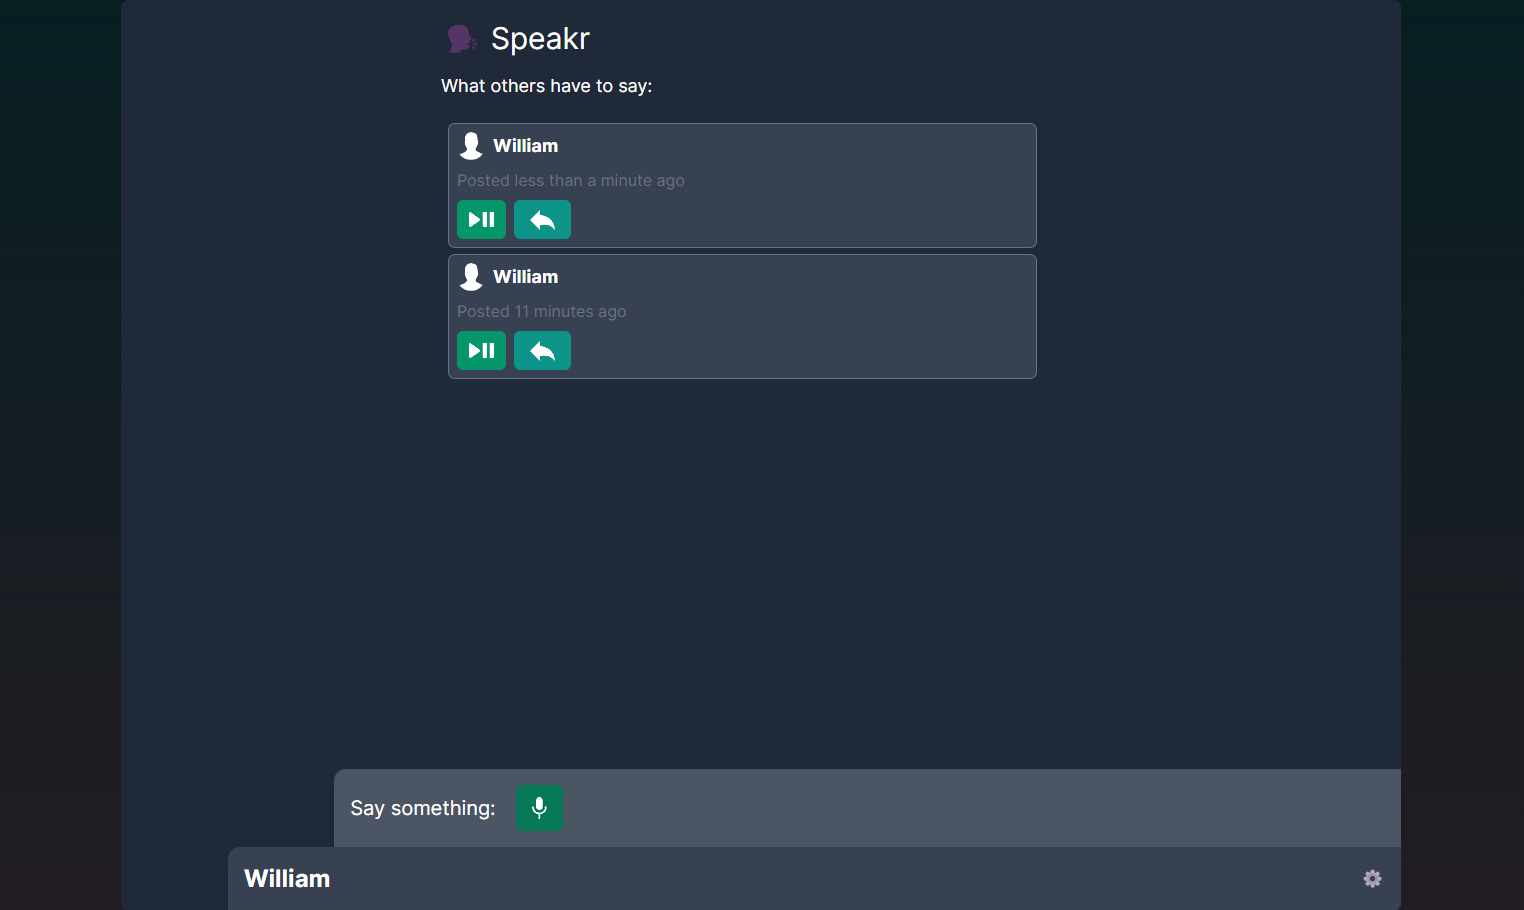
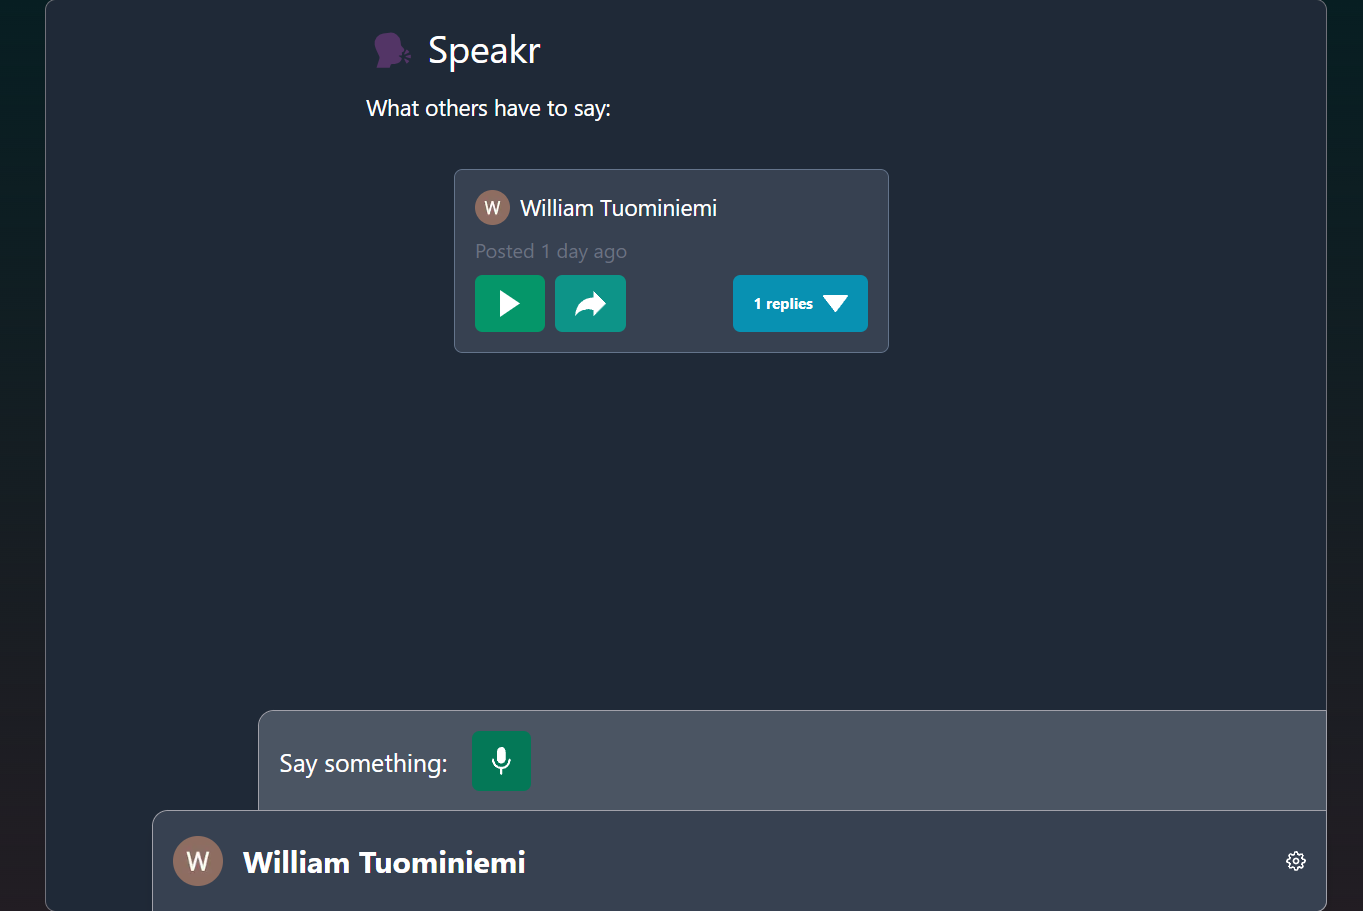
README

Changed region(s): [[0.2773, 0.0308, 0.6779, 0.4308], [0.0924, 0.7692, 0.9861, 1.0]]

diff --git a/README.md b/README.md
@@ -1,12 +1,52 @@
+![Speakr](/public/images/logo.png)
+
 ## Speakr
 
-A forum where one can only interact by talking, instead of typing
+Speakr is a voice-only forum designed for quick, engaging conversations. Built with Next.js and TypeScript, and powered by MongoDB, Speakr allows users to share and reply with 10-second audio clips. Experience a new way to connect and converse by instead of typing, talking.
 
 ![Speakr](/public/images/speakr.png)
 
+## Features
+
+- Record your voice and share it with others
+
+![Controls](/public/images/controls.png)
+
+- Reply to others posts
+
+![Reply](/public/images/reply.png)
+
+- Switch between light and dark mode
+
+![Light](/public/images/lightmode.png)
+![Dark](/public/images/darkmode.png)
+
+- User authentication with Google OAuth
+
+## Technologies
+
+- Next.js with TypeScript
+- MongoDB with Prisma
+- Authentication with Google OAuth
+
 ## Getting started
 
-1. `npm i`
-2. `prisma generate`
-3. Place your MongoDB URI in .env.local
-4. `npm run dev`
+1. Clone the repository:
+
+   `git clone https://github.com/yourusername/speakr.git`
+
+   `cd speakr`
+
+2. Install dependencies:
+
+   `npm i`
+
+3. Generate the Prisma client
+
+   `prisma generate`
+
+4. Place your MongoDB URI, Google client ID and Google client secret in .env
+
+5. Start the development server:
+
+   `npm run dev`
